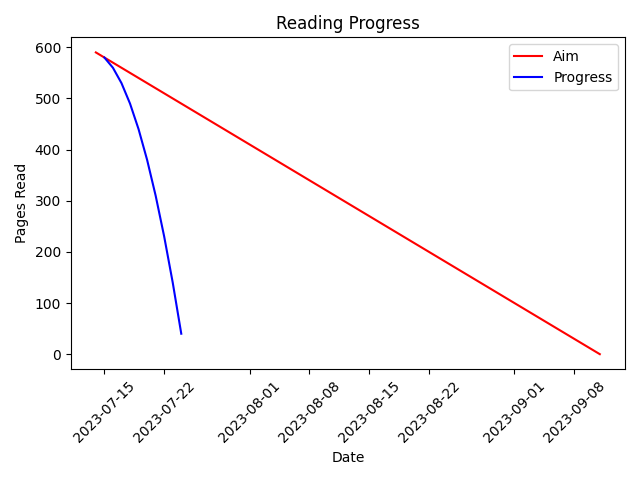
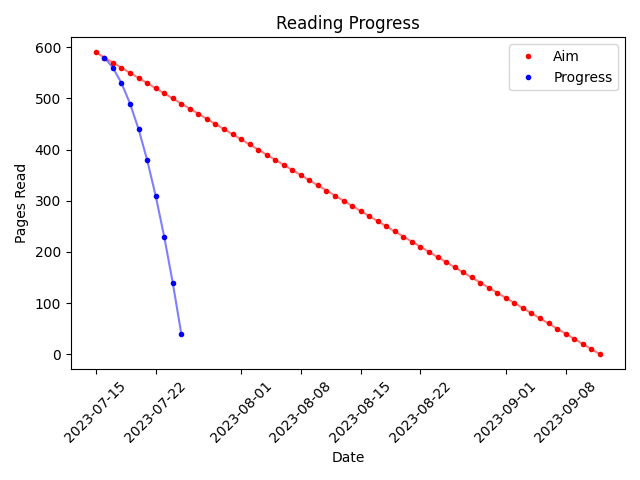
update linear plot

diff --git a/src/dda/draw/progress.py b/src/dda/draw/progress.py
@@ -23,8 +23,10 @@ def visualize_progress(
         fig: Figure
         ax: Axes
         fig, ax = plt.subplots()
-        ax.plot(aim_dates, aim_pages, 'r-', label='Aim')
-        ax.plot(date_keys_actual, plot_summation_list, 'b-', label='Progress')
+        ax.plot(aim_dates, aim_pages, 'r.', label='Aim')
+        ax.plot(aim_dates, aim_pages, 'r-', alpha=0.5)
+        ax.plot(date_keys_actual, plot_summation_list, 'b.', label='Progress')
+        ax.plot(date_keys_actual, plot_summation_list, 'b-', alpha=0.5)
         ax.set_xlabel('Date')
         ax.set_ylabel('Pages Read')
         ax.set_title('Reading Progress')
